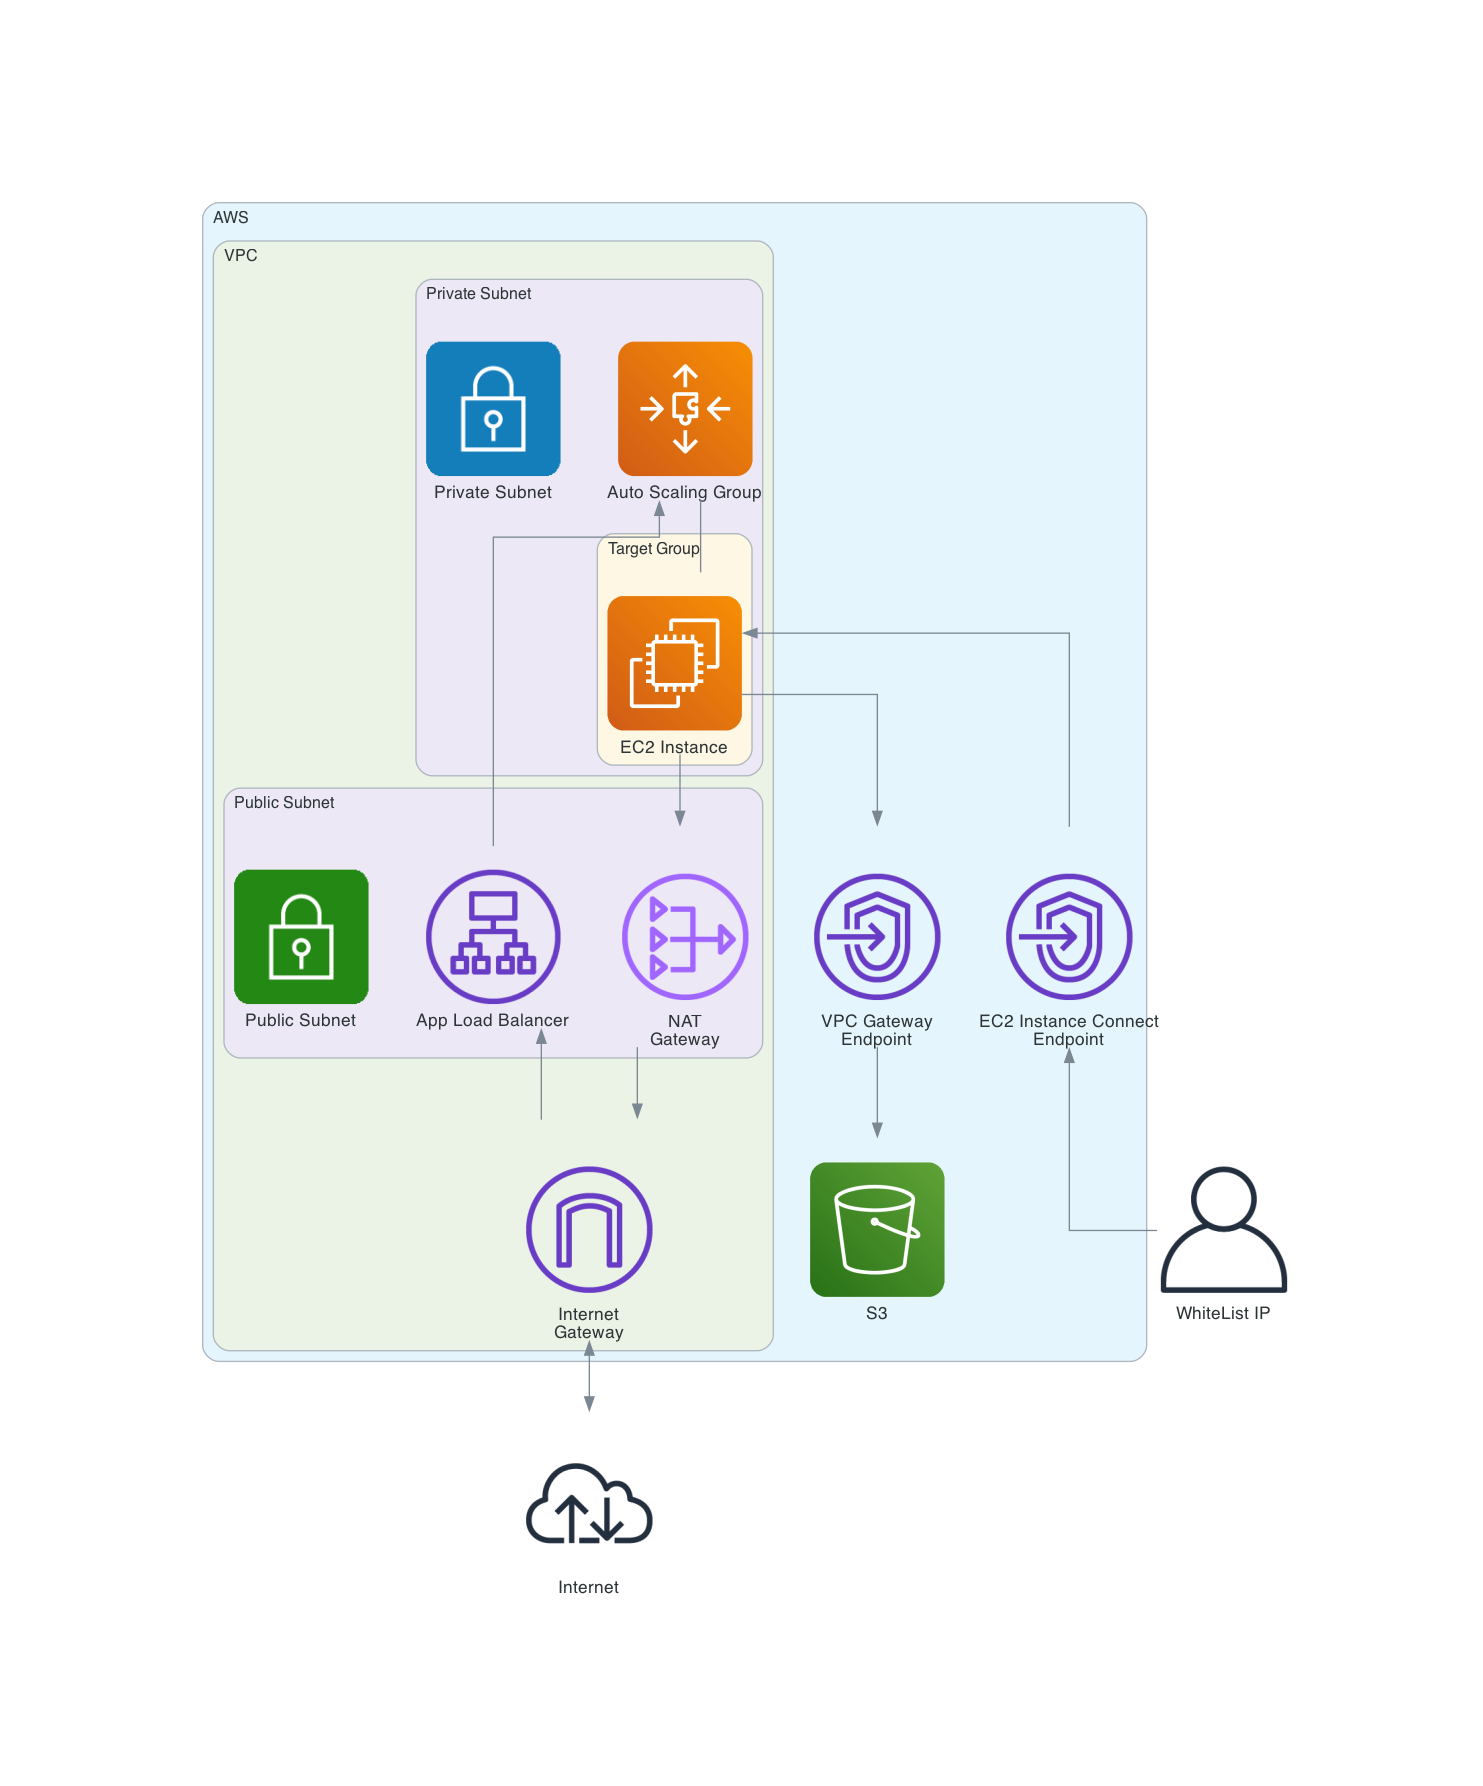
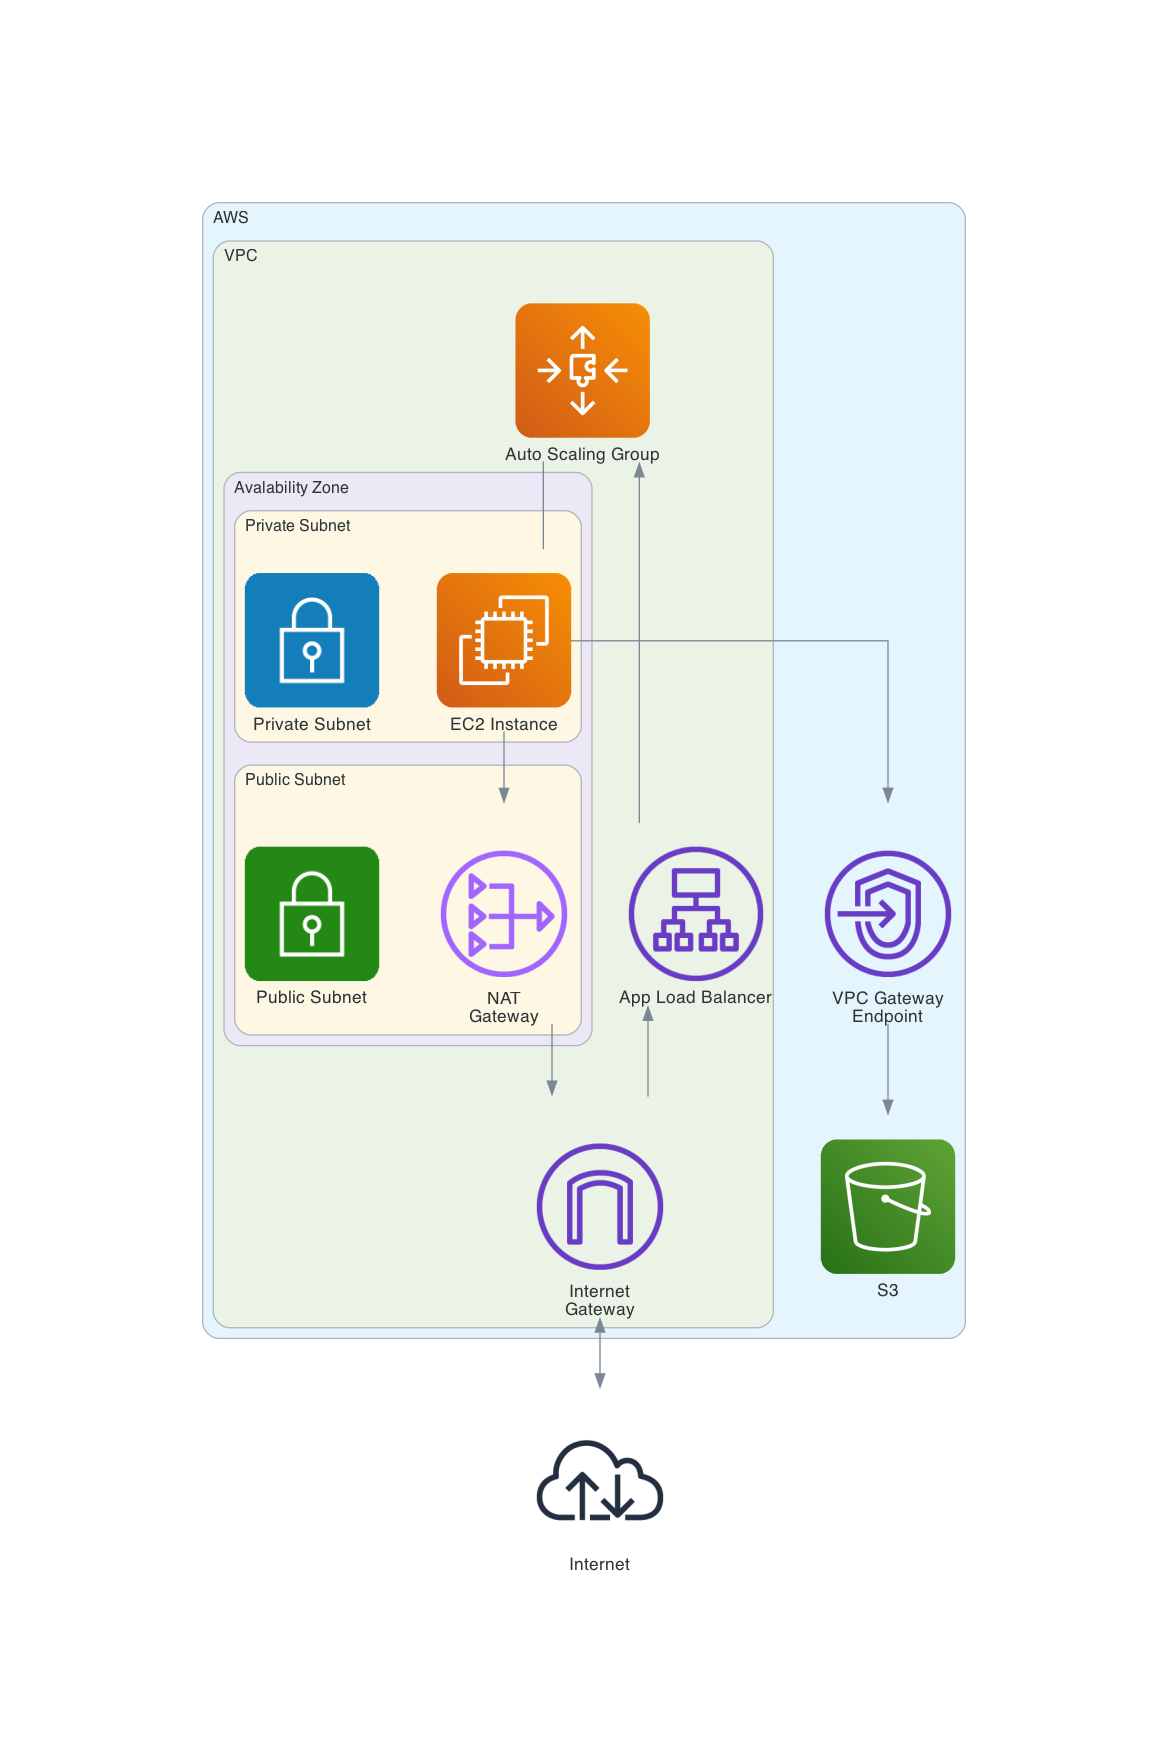
infastructure: Remove instance connect

Changed region(s): [[0.1233, 0.0936, 0.863, 0.7799], [0.339, 0.8111, 0.5856, 0.9047], [0.6473, 0.3432, 0.6781, 0.3744]]

diff --git a/infastructure/cdk/lib/ec2.ts b/infastructure/cdk/lib/ec2.ts
@@ -28,29 +28,6 @@ export class Ec2Stack extends cdk.Stack {
       allowAllOutbound: true,
     })
 
-    appSecurityGroup.addIngressRule(
-      ec2.Peer.anyIpv4(),
-      ec2.Port.tcp(3000),
-      'Allow HTTP Access',
-    )
-
-    // appSecurityGroup.addIngressRule(
-    //   ec2.Peer.anyIpv4(),
-    //   ec2.Port.tcp(22),
-    //   'Allow SSH Access',
-    // )
-
-    props.vpc.privateSubnets.map(({ subnetId }, idx) => {
-      return new ec2.CfnInstanceConnectEndpoint(
-        this,
-        `InstanceConnectEndpoint_${idx}`,
-        {
-          subnetId: subnetId, // Use private subnets
-          securityGroupIds: [appSecurityGroup.securityGroupId],
-        },
-      )
-    })
-
     const userData = ec2.UserData.forLinux()
     userData.addCommands(
       'dnf update -y',

diff --git a/infastructure/cdk/lib/vpc.ts b/infastructure/cdk/lib/vpc.ts
@@ -9,7 +9,6 @@ export class VPCStack extends cdk.Stack {
     super(scope, id, props)
 
     this.vpc = new ec2.Vpc(this, 'vpc', {
-      natGateways: 2,
       maxAzs: 2,
       subnetConfiguration: [
         {

diff --git a/diagrams/vpc_diagram.py b/diagrams/vpc_diagram.py
@@ -1,44 +1,36 @@
 from diagrams import Cluster, Diagram, Edge
-from diagrams.aws.general import User
 from diagrams.aws.compute import EC2, AutoScaling
 from diagrams.aws.storage import S3
 from diagrams.aws.network import InternetGateway, NATGateway, PublicSubnet, PrivateSubnet, ALB, Endpoint
 from diagrams.onprem.network import Internet
 
 with Diagram("", filename="vpc_diagram", outformat="png", direction="TB"):
-    user = User("WhiteList IP")
     internet = Internet("Internet")
 
     with Cluster("AWS"):
         s3 = S3("S3")
-
         s3Endpoint = Endpoint("VPC Gateway\nEndpoint")
-        ec2InstanceEndpoint = Endpoint("EC2 Instance Connect\nEndpoint")
 
         with Cluster("VPC"):
             igw = InternetGateway("Internet\nGateway")
+            alb = ALB("App Load Balancer")
+            asg = AutoScaling("Auto Scaling Group")
 
-            with Cluster("Public Subnet"):
-                alb = ALB("App Load Balancer")
-                natgw = NATGateway("NAT\nGateway")
+            with Cluster("Avalability Zone"):
+                with Cluster("Public Subnet"):
+                    natgw = NATGateway("NAT\nGateway")
+                    publicSubnet = PublicSubnet("Public Subnet")
 
-                publicSubnet = PublicSubnet("Public Subnet")
-
-            with Cluster("Private Subnet"):
-                privateSubnet = PrivateSubnet("Private Subnet")
-
-                asg = AutoScaling("Auto Scaling Group")
-                with Cluster("Target Group"):
+                with Cluster("Private Subnet"):
+                    privateSubnet = PrivateSubnet("Private Subnet")
                     targetGroup = EC2("EC2 Instance")
                     asg - targetGroup
 
         asg << alb
         targetGroup >> s3Endpoint >> s3
-        targetGroup << ec2InstanceEndpoint
 
         targetGroup >> natgw >> igw
 
         alb << igw
 
-    ec2InstanceEndpoint << user
     igw << Edge(label="") >> internet

diff --git a/diagrams/backend_diagram.py b/diagrams/backend_diagram.py
@@ -23,11 +23,11 @@ with Diagram("", filename="backend_diagram", outformat="png"):
 
             with Cluster("Target Group"):
                 auto_scaling_group = AutoScaling("Auto Scaling Group")
-                app_load_balancer >> Edge(label="HTTPS") >> auto_scaling_group
+                app_load_balancer >> auto_scaling_group
                 auto_scaling_group - [
                     EC2("EC2 Instance"), EC2("EC2 Instance")]
 
-        route_53 >> app_load_balancer
+        route_53 >> Edge(label="HTTPS") >> app_load_balancer
 
     user >> Edge(label="") >> route_53
     github_action >> Edge(label="Deploys backend app to S3") >> s3_bucket >> Edge(
